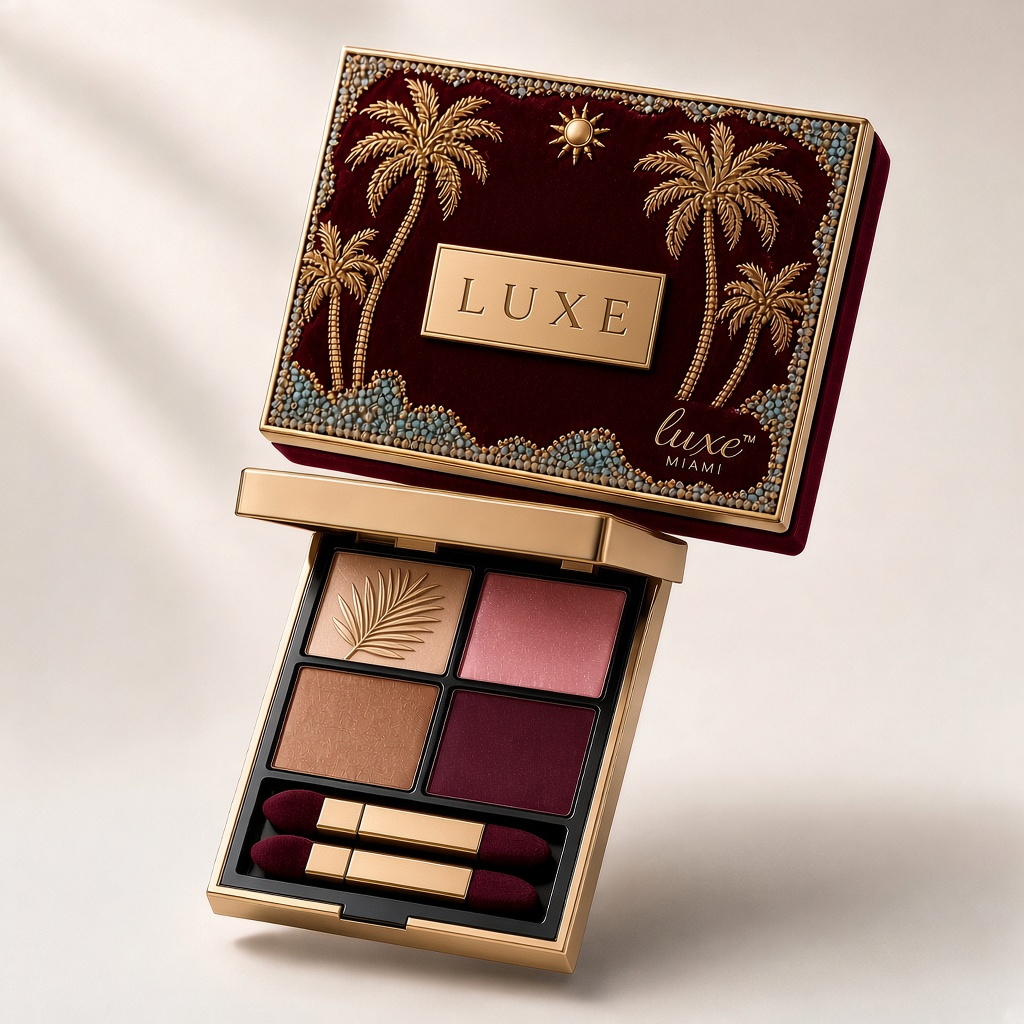
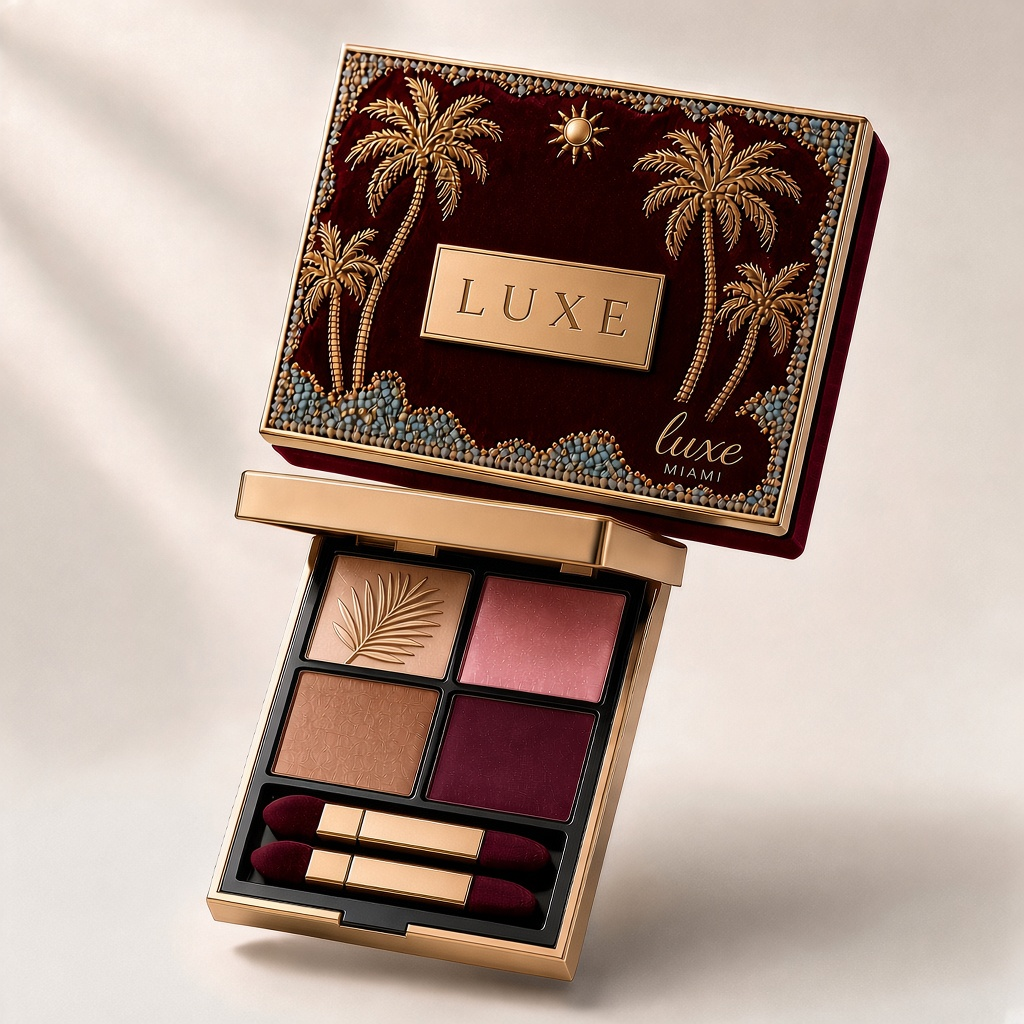
Shelf B01–B08 Velvet Couture clean leap optC (#30)
Replace Taking-shape tiles with Creative leap-optC-clean masters (no ™, no white foot logos). LX-06 untouched. ™-free text. Notify/Taking shape only; no Buy.

Changed region(s): [[0.1875, 0.0312, 0.875, 1.0]]

diff --git a/index.html b/index.html
@@ -1663,7 +1663,7 @@ html.js [data-reveal] { opacity: 0; transform: translateY(12px); }
             </article>
             <article class="product-card product-card--parked">
               <div class="product-card__media">
-                <img src="spa/products/LX-B07-la-veilleuse.jpg" alt="La Veilleuse: a cream candle vessel with a brushed gold lid, a small gold seal, and luxe Miami in gold script." width="1024" height="1024" loading="lazy">
+                <img src="spa/products/LX-B07-la-veilleuse.jpg" alt="La Veilleuse: a cream candle in a faceted glass vessel with a brushed gold lid and a burgundy velvet band lettered luxe Miami." width="1024" height="1024" loading="lazy">
               </div>
               <div class="product-card__body">
                 <p class="product-card__index">LX-B07</p>
@@ -1717,7 +1717,7 @@ html.js [data-reveal] { opacity: 0; transform: translateY(12px); }
             </article>
             <article class="product-card product-card--parked">
               <div class="product-card__media">
-                <img src="spa/products/LX-B02-brickell-pearls.jpg" alt="Brickell Pearls: an open compact of pink, ivory, and lilac powder pearls, a beaded lid lettered LUXE, and a cream puff with a burgundy band lettered luxe Miami." width="1024" height="1024" loading="lazy">
+                <img src="spa/products/LX-B02-brickell-pearls.jpg" alt="Brickell Pearls: an open compact of pink, ivory, and lilac powder pearls, a beaded lid lettered luxe, and a cream puff with a burgundy band lettered luxe Miami." width="1024" height="1024" loading="lazy">
               </div>
               <div class="product-card__body">
                 <p class="product-card__index">LX-B02</p>
@@ -1825,7 +1825,7 @@ html.js [data-reveal] { opacity: 0; transform: translateY(12px); }
             </article>
             <article class="product-card product-card--parked">
               <div class="product-card__media">
-                <img src="spa/products/LX-B06-nuit-de-velours.jpg" alt="Nuit de Velours: a faceted amber glass flacon with a gold stopper, a burgundy velvet ribbon, and a gold orchid charm with a burgundy heart, on a pale ground." width="1024" height="1024" loading="lazy">
+                <img src="spa/products/LX-B06-nuit-de-velours.jpg" alt="Nuit de Velours: an amber glass flacon labeled Nuit de Velours Signature Extrait, with a gold stopper and a burgundy velvet label reading luxe Miami, in front of a palm-embroidered velvet box and a gold LUXE medallion." width="1024" height="1024" loading="lazy">
               </div>
               <div class="product-card__body">
                 <p class="product-card__index">LX-B06</p>

diff --git a/README.md b/README.md
@@ -27,4 +27,4 @@ In the works is nine planned services. The squares do not carry a “not offered
 
 The LX-06 Gratitude card and seal set leads the Products campaign on an ivory ground. The hero is the clean plate `spa/products/LX-06-gratitude-folded-set-hero.jpg`. The campaign title is Gratitude card & seal set, the pill is Waitlist open, and Join the waitlist goes to `#lx-06`. The campaign fine print is the brand line Luxe Atelier. The same waitlist also lives on `lx-06.html`. The header label Gratitude and the footer link point there. `spa/products/LX-06-gratitude-set.jpg` and `spa/products/LX-06-gratitude-seals.jpg` stay on the `#lx-06` section. That section leads with the set, then one waitlist line, the Spa 1 proceeds sentence, and the exclusivity line. The full terms stay once in the Terms disclosure. The social teaser is not repeated on the page.
 
-Products sits after The Atelier and before the LX-06 waitlist. The shelf opens with one live tile, LX-06 Gratitude, pill Waitlist open, linking to `#lx-06`. It is a shelf card, not a second campaign hero. The candle and beauty concepts stay in the row, parked: grayscale, pill Taking shape, CTA Notify me. LX-B06 Nuit de Velours is a fragrance concept on that parked row. It is not the Products heading and not the campaign still. `spa/products/LX-B06-nuit-de-velours-campaign.jpg` remains in the repo and is not used on the page. Beauty masters `LX-B01-signet-rouge.jpg` through `LX-B05-causeway-bronze.jpg` are the Guerlain leap optC shots, kept at those filenames. `LX-B06-nuit-de-velours.jpg`, `LX-B07-la-veilleuse.jpg`, and `LX-B08-agua-de-seda.jpg` stay on the live nano2 masters until matching optC arrives. Each parked card posts a notify note for that SKU through the same FormSubmit address, with the SKU in the subject and body. The photographs are used as shot. Names on the shelf still need a trademark check before a public launch. LX-06 is the paper set. LX-B06 is the fragrance. Those names are not interchangeable.
+Products sits after The Atelier and before the LX-06 waitlist. The shelf opens with one live tile, LX-06 Gratitude, pill Waitlist open, linking to `#lx-06`. It is a shelf card, not a second campaign hero. The candle and beauty concepts stay in the row, parked: grayscale, pill Taking shape, CTA Notify me. LX-B06 Nuit de Velours is a fragrance concept on that parked row. It is not the Products heading and not the campaign still. `spa/products/LX-B06-nuit-de-velours-campaign.jpg` remains in the repo and is not used on the page. Beauty masters `LX-B01-signet-rouge.jpg` through `LX-B08-agua-de-seda.jpg` are the leap optC clean shots, kept at those filenames. Pack art has no trademark mark and no white foot logo. Each parked card posts a notify note for that SKU through the same FormSubmit address, with the SKU in the subject and body. The photographs are used as shot. Names on the shelf still need a trademark check before a public launch. LX-06 is the paper set. LX-B06 is the fragrance. Those names are not interchangeable.
